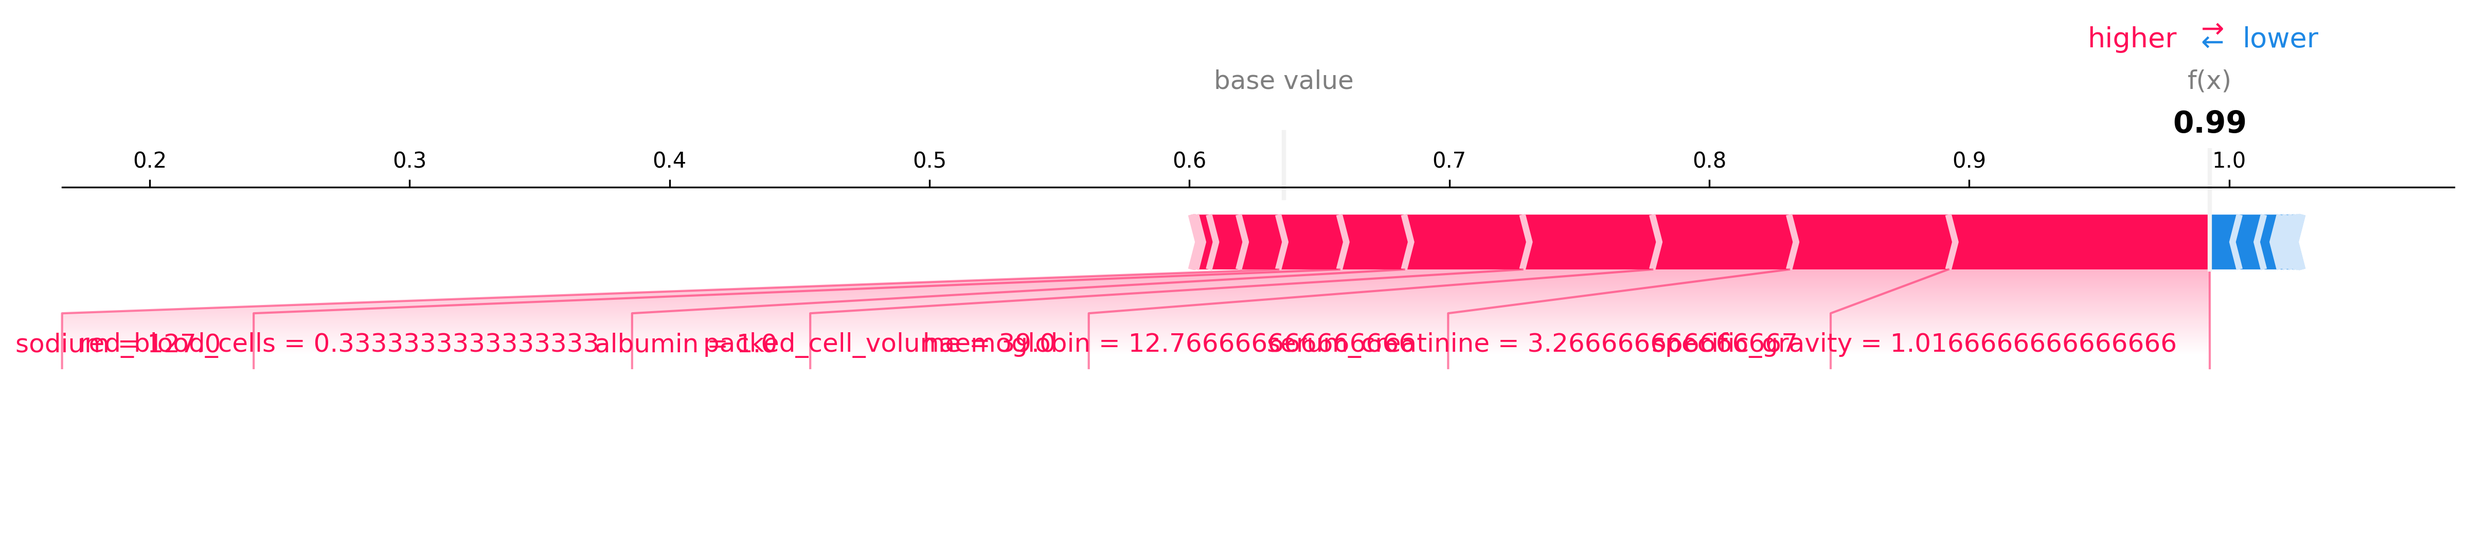
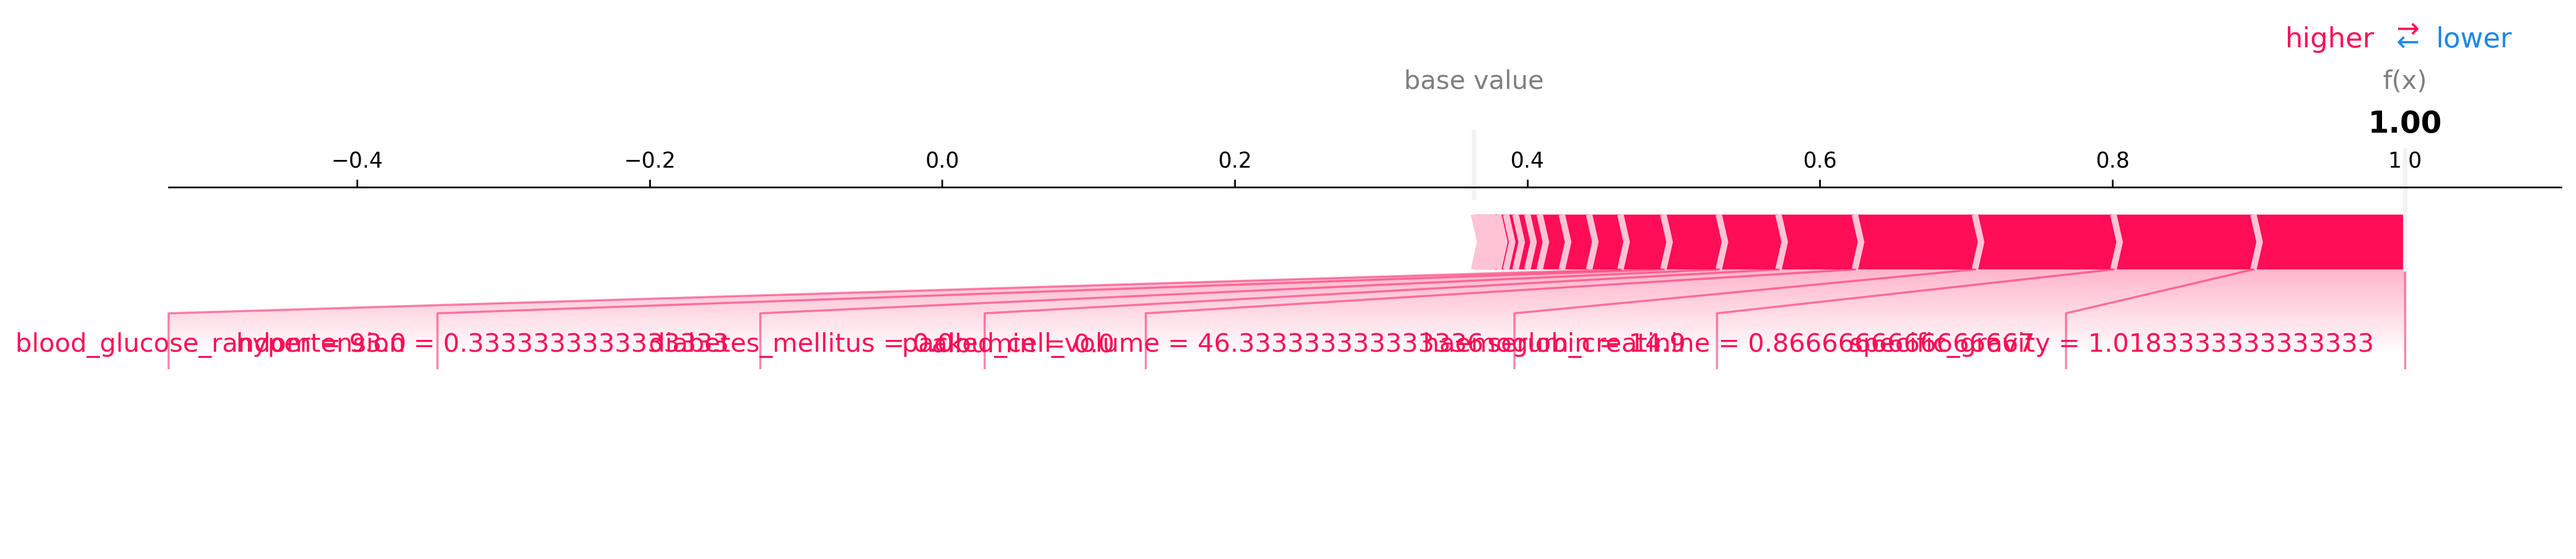
image commit

diff --git a/templates/home.html b/templates/home.html
@@ -18,35 +18,161 @@ h1 {
 </style>
 <div class="container">
     <div class="card card-body" style="border: 1px solid black; box-shadow: 0 0 10px black; background-color: #dbcb20">
-        <h1>Building Trust in Clinical AI: A Web-Based Explainable Decision Support System for Chronic Kidney Disease</h1>
-        <center><h3>Krishna Mridha, Ming Wang, Lijun Zhang</h3></center> 
-        <br>
-       <h2>Model Accuracies:</h2>
-        <ul>
-            <li>Ada Boost: <strong>100%</strong></li>
-            <li>Cat Boost: <strong>98.33%</strong></li>
-            <li>K-nearest Neighbors: <strong>65.83%</strong></li>
-            <li>Random Forest: <strong>95.83%</strong></li>
-            <li>Xgb Boost: <strong>96.67%</strong></li>
-            <li>Extra Tree: <strong>96.67%</strong></li>
-        </ul>
-        <br>
-        <h3>Information about the Diseases:</h3>
+        <h1>Beyond Missing Data: Enhancing CKD Prediction with Explainable AI and Dynamic Feature Imputation</h1>
+        <center>
+            <h3>Krishna Mridha, Ming Wang, Lijun Zhang</h3>
+            <img src="static/022.jpg" alt="Krishna Mridha" width="100">
+            <img src="static/ming_wang.png" alt="Ming Wang" width="100">
+            <img src="static/lijun_zhang.png" alt="Lijun Zhang" width="100">
+        </center>
+        
         <br>
         <div class="row">
-            <div class="col-md-12 card card-body" style="box-shadow: 0 0 5px black; margin: 5px; background-color: #dbcb20">
-                <h4>Chronic Kidney Disease</h4>
-                <p>Chronic kidney disease (CKD) means your kidneys are damaged and can’t filter blood the way they should. The disease is called “chronic” because the damage to your kidneys happens slowly over a long period of time. This damage can cause wastes to build up in your body. CKD can also cause other health problems.</p>
-                <h5>Symptoms</h5>
-                <ul>
-                    <li>Nausea</li>
-                    <li>Vomiting</li>
-                    <li>Fatigue and weakness</li>
-                    <li>Muscle twitches and cramps</li>
-                    <li>Loss of appetite</li>
-                </ul>
+            <div class="col-md-12 card card-body d-flex align-items-center justify-content-between" 
+                 style="box-shadow: 0 0 5px black; margin: 5px; background-color: #f4f4f4;">
+                
+                <!-- Model Accuracies List (65%) -->
+                <div style="width: 65%;">
+                    <h4>Model Accuracies</h4>
+                    <ul>
+                        <li>✅ <b>Ada Boost:</b> <strong>100%</strong></li>
+                        <li>✅ <b>Cat Boost:</b> <strong>98.33%</strong></li>
+                        <li>✅ <b>K-Nearest Neighbors:</b> <strong>65.83%</strong></li>
+                        <li>✅ <b>Random Forest:</b> <strong>95.83%</strong></li>
+                        <li>✅ <b>XGB Boost:</b> <strong>96.67%</strong></li>
+                        <li>✅ <b>Extra Tree:</b> <strong>96.67%</strong></li>
+                    </ul>
+                </div>
+        
+                <!-- Model Accuracy Image (30%) -->
+                <div style="width: 30%;">
+                    <img src="{{ url_for('static', filename='model.jpg') }}" 
+                         alt="Model Accuracy Chart" style="width:100%; border-radius: 10px;">
+                    <center>
+                        <p><small>Model Architecture of our work </small></p>
+                         <p><small>Source: <a href="https://archive.ics.uci.edu/dataset/336/chronic+kidney+disease" 
+                                             target="_blank">UCI Data Reposity</a></small></p>
+                    </center>
+                </div>
             </div>
         </div>
+        
+
+        <!-- CKD Overview -->
+        <div class="row">
+            <div class="col-md-12 card card-body d-flex align-items-center justify-content-between" 
+                style="box-shadow: 0 0 5px black; margin: 5px; background-color: #fafaf5;">
+                <div style="width: 65%;">
+                    <h4>What is Chronic Kidney Disease?</h4>
+                    <p><b>Chronic kidney disease (CKD)</b> means your kidneys are damaged and can’t filter blood the way they should. 
+                    The disease is called “chronic” because it develops <b>slowly over time</b>.
+                    CKD causes waste to build up in your body, leading to serious health problems. 
+                    Early detection is key to slowing its progression!</p>
+                </div>
+                <div style="width: 50%;">
+                    <img src="{{ url_for('static', filename='stages.png') }}" 
+                        alt="CKD Stages" style="width:100%; border-radius: 10px;">
+                    <center><p><small>Source: <a href="https://www.ukkidney.org/health-professionals/information-resources/uk-eckd-guide/ckd-staging" 
+                                        target="_blank">UK Kidney Association</a></small></p></center>
+                </div>
+            </div>
+        </div>
+
+        <br>
+
+        <!-- Symptoms Section -->
+        <div class="row">
+            <div class="col-md-12 card card-body d-flex align-items-center justify-content-between" 
+                style="box-shadow: 0 0 5px black; margin: 5px; background-color: #f4f4f4;">
+                <div style="width: 65%;">
+                    <h4>Symptoms of CKD</h4>
+                    <ul>
+                        <li>✅ Nausea & Vomiting</li>
+                        <li>✅ Fatigue and Weakness</li>
+                        <li>✅ Muscle Twitches & Cramps</li>
+                        <li>✅ Loss of Appetite</li>
+                        <li>✅ Swelling in Legs & Feet</li>
+                        <li>✅ Frequent Urination, Especially at Night</li>
+                        <li>✅ Shortness of Breath</li>
+                        <li>✅ Dry & Itchy Skin</li>
+                    </ul>
+                </div>
+                <div style="width: 30%;">
+                    <img src="{{ url_for('static', filename='symtoms.jpg') }}" 
+                        alt="Kidney Disease Symptoms" style="width:100%; border-radius: 10px;">
+                   <center> <p><small>Source: <a href="https://my.clevelandclinic.org/health/diseases/15096-chronic-kidney-disease" 
+                                        target="_blank">Cleveland Clinic</a></small></p> </center>
+                </div>
+            </div>
+        </div>
+
+        <br>
+
+        <!-- Causes and Risk Factors -->
+        <div class="row">
+            <div class="col-md-12 card card-body d-flex align-items-center justify-content-between" 
+                style="box-shadow: 0 0 5px black; margin: 5px; background-color: #e0f7fa;">
+                <div style="width: 65%;">
+                    <h4>Causes & Risk Factors</h4>
+                    <ul>
+                        <li>💊 High Blood Pressure - One of the leading causes</li>
+                        <li>🩸 Diabetes - High blood sugar can damage kidneys</li>
+                        <li>🍔 Obesity & Poor Diet - Unhealthy lifestyle choices</li>
+                        <li>🚬 Smoking & Alcohol - Damages blood vessels</li>
+                        <li>👵 Age & Family History - Higher risk if relatives had CKD</li>
+                    </ul>
+                </div>
+                <div style="width: 30%;">
+                    <p><small>Source: <a href="https://www.kidney.org/kidney-topics/chronic-kidney-disease-ckd" 
+                                        target="_blank">National Kideny Foundation</a></small></p>
+                </div>
+            </div>
+        </div>
+
+        <br>
+
+        <!-- Prevention Tips -->
+        <div class="row">
+            <div class="col-md-12 card card-body d-flex align-items-center justify-content-between" 
+                style="box-shadow: 0 0 5px black; margin: 5px; background-color: #d4edda;">
+                <div style="width: 65%;">
+                    <h4>Prevention & Healthy Lifestyle</h4>
+                    <ul>
+                        <li>🥦 Eat a Healthy Diet (Low sodium & protein balance)</li>
+                        <li>🚶♂ Exercise Regularly</li>
+                        <li>💧 Stay Hydrated - Drink enough water daily</li>
+                        <li>⚖ Maintain a Healthy Weight</li>
+                        <li>❌ Avoid Smoking & Alcohol</li>
+                        <li>🩺 Monitor Blood Pressure & Diabetes</li>
+                    </ul>
+                </div>
+                <div style="width: 30%;">
+                    <p><small>Source: <a href="https://www.kidney.org/prevention" 
+                                        target="_blank">National Kidney Foundation</a></small></p>
+                </div>
+            </div>
+        </div>
+
+        <br>
+
+      <!-- Call to Action Inside Card -->
+        <div class="row">
+            <div class="col-md-12">
+                <div class="card card-body text-center" style="box-shadow: 0 0 5px black; margin: 10px; background-color: #e3f2fd;">
+                    <h4>Do you want to test the model?</h4>
+                    <a class="btn btn-primary" href="{{ url_for('kidneyPage') }}" 
+                    style="font-size: 18px; padding: 10px 20px; border-radius: 8px;">CKD Prediction</a>
+                </div>
+            </div>
+        </div>
+
+
+
+        <h4>Author's Website and Google Scholar:</h4>
+        <ul>
+            <li><a href="https://scholar.google.com/citations?user=_Yulp8gAAAAJ&hl=en">Google Scholar</a></li>
+            <li><a href="https://cwru-cinema.com/">Author's Website</a></li>
+        </ul>
     </div>
 </div>
 {% endblock %}

diff --git a/templates/main.html b/templates/main.html
@@ -2,23 +2,23 @@
 <html lang="en">
 <head>
   <meta name="viewport" content="width=device-width, initial-scale=1.0">
-  <meta name="og:title" content="Medibuddy: Smart Disease Predictor">
-  <meta name="author" content="KANCHI TANK">
-  <meta name="og:image" content="static/favicon.ico">
-  <title>CINEMA Research Group at Case Western Reserve University</title>
-  <link rel="icon" type="image/x-icon" href="static/favicon.ico?v=2" />
-  
+  <meta name="og:image" content="static/kidney.png">
+  <title>Krishna Mridha, Ming Wang, Lijun Zhang</title>
+  <link rel="icon" type="image/x-icon" href="static/kidney.png?v=2" />
+
   <!-- Bootstrap CSS -->
-  <link rel="stylesheet" href="https://stackpath.bootstrapcdn.com/bootstrap/4.3.1/css/bootstrap.min.css" integrity="sha384-ggOyR0iXCbMQv3Xipma34MD+dH/1fQ784/j6cY/iJTQUOhcWr7x9JvoRxT2MZw1T" crossorigin="anonymous">
+  <link rel="stylesheet" href="https://stackpath.bootstrapcdn.com/bootstrap/4.3.1/css/bootstrap.min.css">
+
+  <!-- Font Awesome -->
   <link href="https://cdnjs.cloudflare.com/ajax/libs/font-awesome/4.7.0/css/font-awesome.min.css" rel="stylesheet"/>
-  
+
   <!-- jQuery -->
-  <script src="https://code.jquery.com/jquery-3.3.1.slim.min.js" integrity="sha384-q8i/X+965DzO0rT7abK41JStQIAqVgRVzpbzo5smXKpYfRvH+8abtTE1Pi6jizo" crossorigin="anonymous"></script>
+  <script src="https://code.jquery.com/jquery-3.3.1.min.js"></script>
   <!-- Popper.js -->
-  <script src="https://cdnjs.cloudflare.com/ajax/libs/popper.js/1.14.7/umd/popper.min.js" integrity="sha384-UO2eT0CpHqdSJQ6hJty5KVphtPhzWj9WO1clHTMGa3JDZwrnQq4sF86dIHNDz0W1" crossorigin="anonymous"></script>
+  <script src="https://cdnjs.cloudflare.com/ajax/libs/popper.js/1.14.7/umd/popper.min.js"></script>
   <!-- Bootstrap JS -->
-  <script src="https://stackpath.bootstrapcdn.com/bootstrap/4.3.1/js/bootstrap.min.js" integrity="sha384-JjSmVgyd0p3pXB1rRibZUAYoIIy6OrQ6VrjIEaFf/nJGzIxFDsf4x0xIM+B07jRM" crossorigin="anonymous"></script>
-  
+  <script src="https://stackpath.bootstrapcdn.com/bootstrap/4.3.1/js/bootstrap.min.js"></script>
+
   <style>
     html, body {
       height: 100%;
@@ -44,24 +44,42 @@
   </style>
 </head>
 <body>
+
+  <!-- Navigation Bar -->
   <nav class="navbar navbar-expand-lg navbar-dark fixed-top bg-dark" style="background-image: linear-gradient(#4e0374, #4e0374) !important;">
-    <a class="navbar-brand" href="{{ url_for('home') }}">
-      <img src="{{ url_for('static', filename='my_logo.png') }}" height="70px" width="180px" alt="Medibuddy Logo">
-    </a>
+
+    
+    <!-- Toggler Button for Mobile -->
     <button class="navbar-toggler" type="button" data-toggle="collapse" data-target="#navbarNav" aria-controls="navbarNav" aria-expanded="false" aria-label="Toggle navigation">
       <span class="navbar-toggler-icon"></span>
     </button>
+
+    <!-- Navbar Items -->
     <div class="collapse navbar-collapse" id="navbarNav">
       <ul class="navbar-nav mx-auto">
         <li class="nav-item active">
           <a class="nav-link" href="{{ url_for('home') }}">Home</a>
         </li>
         <li class="nav-item active">
-          <a class="nav-link" href="{{ url_for('kidneyPage') }}">Kidney</a>
+          <a class="nav-link" href="{{ url_for('kidneyPage') }}">CKD Model</a>
+        </li>
+
+        <!-- Dropdown Menu Example -->
+        <li class="nav-item dropdown">
+          <a class="nav-link dropdown-toggle" href="#" id="navbarDropdown" role="button" data-toggle="dropdown" aria-haspopup="true" aria-expanded="false">
+            More
+          </a>
+          <div class="dropdown-menu" aria-labelledby="navbarDropdown">
+            <a class="dropdown-item" href="#">Diabetes</a>
+            <a class="dropdown-item" href="#">Heart Disease</a>
+            <div class="dropdown-divider"></div>
+            <a class="dropdown-item" href="#">Contact Us</a>
+          </div>
         </li>
       </ul>
     </div>
   </nav>
+
   <br><br><br><br>
   <main>
     <div class="container-fluid" style="margin-bottom: 20px;">
@@ -69,6 +87,8 @@
       {% endblock %}
     </div>
   </main>
+
+  <!-- Footer -->
   <footer style="background-image: linear-gradient(#a40c68, #4e0374) !important;">
     <center>
       <ul style="list-style-type:none;">
@@ -76,5 +96,6 @@
       </ul>
     </center>
   </footer>
+
 </body>
 </html>

diff --git a/static/lime_explanation.html b/static/lime_explanation.html
@@ -37089,25 +37089,25 @@
 /***/ })
 /******/ ]);
 //# sourceMappingURL=bundle.js.map </script></head><body>
-        <div class="lime top_div" id="top_divG3EN9HVRWBWMCUQ"></div>
+        <div class="lime top_div" id="top_divR2RS7EKDJRQYVKS"></div>
         
         <script>
-        var top_div = d3.select('#top_divG3EN9HVRWBWMCUQ').classed('lime top_div', true);
+        var top_div = d3.select('#top_divR2RS7EKDJRQYVKS').classed('lime top_div', true);
         
             var pp_div = top_div.append('div')
                                 .classed('lime predict_proba', true);
             var pp_svg = pp_div.append('svg').style('width', '100%');
-            var pp = new lime.PredictProba(pp_svg, ["CKD", "Healthy"], [0.9925, 0.0075]);
+            var pp = new lime.PredictProba(pp_svg, ["CKD", "Healthy"], [0.0, 1.0]);
             
         
         var exp_div;
             var exp = new lime.Explanation(["CKD", "Healthy"]);
         
                 exp_div = top_div.append('div').classed('lime explanation', true);
-                exp.show([["0.00 < diabetes_mellitus <= 1.00", -0.06642667752752127], ["serum_creatinine > 2.70", -0.05006271870623798], ["0.00 < albumin <= 2.00", -0.04482750340444148], ["12.70 < haemoglobin <= 15.00", 0.0401563822037693], ["0.00 < hypertension <= 1.00", -0.03686771847895137], ["33.00 < packed_cell_volume <= 40.50", -0.03549271479120566], ["peda_edema <= 0.00", 0.026437153734269365], ["appetite > 0.00", -0.02220579107479452], ["sodium <= 135.00", -0.021657639296791882], ["blood_glucose_random <= 99.00", 0.01953596502904448]], 1, exp_div);
+                exp.show([["diabetes_mellitus <= 0.00", 0.07042437594275412], ["albumin <= 0.00", 0.05866613808844337], ["serum_creatinine <= 0.90", 0.05034622208225359], ["packed_cell_volume > 46.00", 0.049996661979560465], ["0.00 < hypertension <= 1.00", -0.04668546578511223], ["12.70 < haemoglobin <= 15.00", 0.04400079137836759], ["peda_edema <= 0.00", 0.032920785450509304], ["blood_glucose_random <= 99.00", 0.022999292332660813], ["appetite <= 0.00", 0.02198161253689029], ["sugar <= 0.00", 0.02083117869373593]], 1, exp_div);
                 
         var raw_div = top_div.append('div');
-            exp.show_raw_tabular([["diabetes_mellitus", "0.33", -0.06642667752752127], ["serum_creatinine", "3.27", -0.05006271870623798], ["albumin", "1.00", -0.04482750340444148], ["haemoglobin", "12.77", 0.0401563822037693], ["hypertension", "0.33", -0.03686771847895137], ["packed_cell_volume", "39.00", -0.03549271479120566], ["peda_edema", "0.00", 0.026437153734269365], ["appetite", "0.33", -0.02220579107479452], ["sodium", "127.00", -0.021657639296791882], ["blood_glucose_random", "3.40", 0.01953596502904448]], 1, raw_div);
+            exp.show_raw_tabular([["diabetes_mellitus", "0.00", 0.07042437594275412], ["albumin", "0.00", 0.05866613808844337], ["serum_creatinine", "0.87", 0.05034622208225359], ["packed_cell_volume", "46.33", 0.049996661979560465], ["hypertension", "0.33", -0.04668546578511223], ["haemoglobin", "14.90", 0.04400079137836759], ["peda_edema", "0.00", 0.032920785450509304], ["blood_glucose_random", "93.00", 0.022999292332660813], ["appetite", "0.00", 0.02198161253689029], ["sugar", "0.00", 0.02083117869373593]], 1, raw_div);
         
         </script>
         </body></html>
